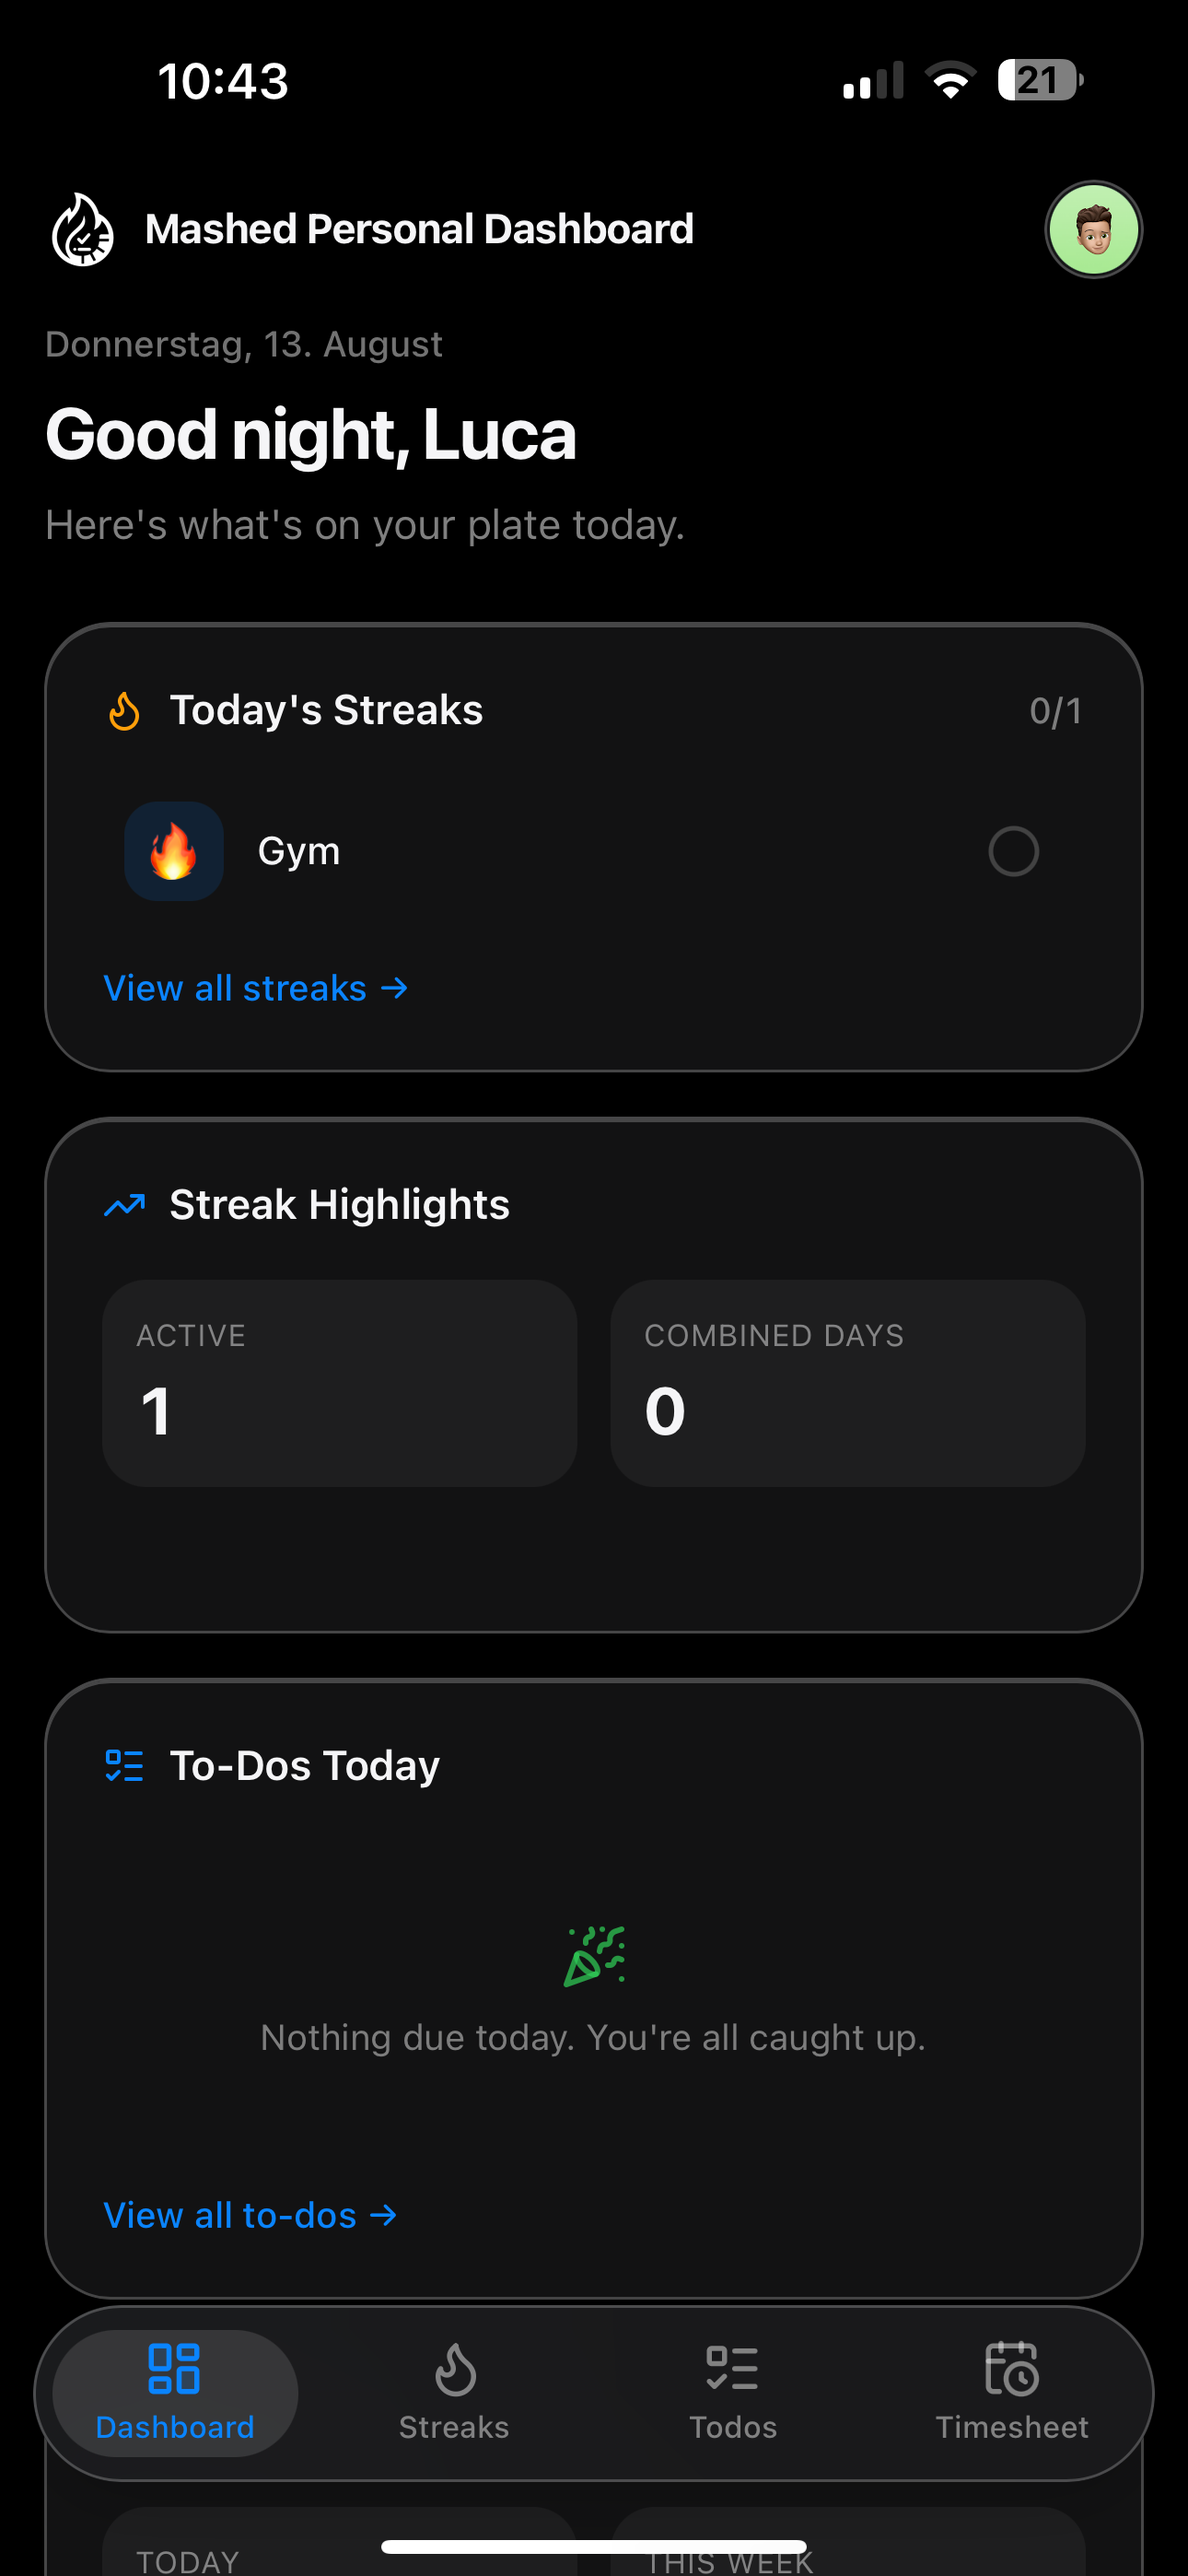
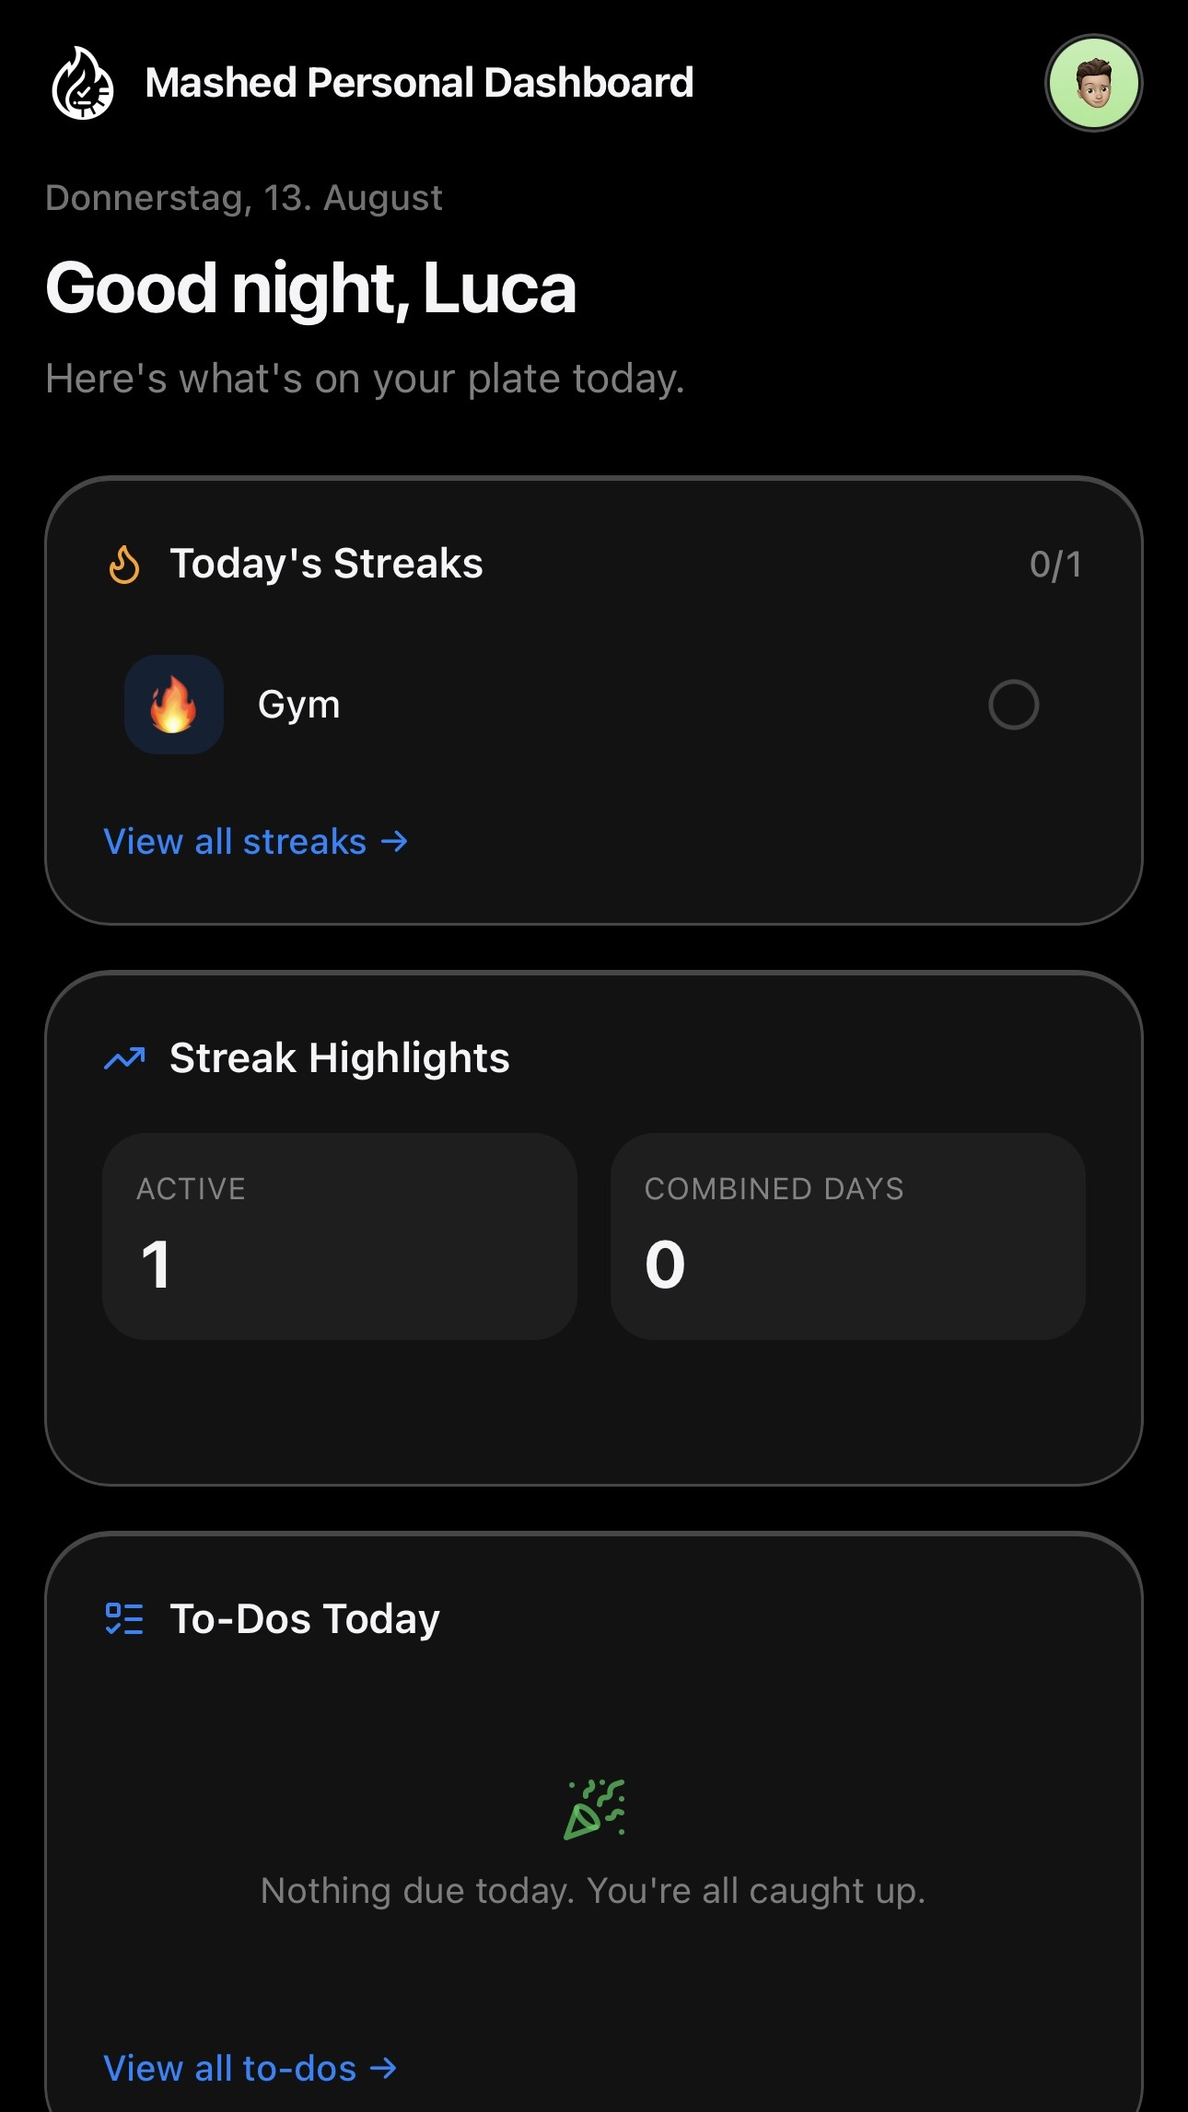
Update manifest version and screenshot dimensions for improved PWA compliance
- Updated the manifest.json to version 11, reflecting changes in related applications and display settings.
- Adjusted screenshot dimensions in the manifest and documentation to match the new image sizes.
- Replaced narrow-1080x1920.png and wide-1920x1080.png with higher resolution versions for better visual representation.

diff --git a/index.html b/index.html
@@ -7,7 +7,7 @@
     <link rel="icon" href="/favicon.svg?v=9" type="image/svg+xml" />
     <link rel="shortcut icon" href="/favicon-32.png?v=9" />
     <link rel="apple-touch-icon" sizes="180x180" href="/apple-touch-icon.png?v=9" />
-    <link rel="manifest" href="/manifest.json?v=10" />
+    <link rel="manifest" href="/manifest.json?v=11" />
     <meta name="viewport" content="width=device-width, initial-scale=1.0, viewport-fit=cover, maximum-scale=1.0" />
     <meta name="theme-color" content="#000000" />
     <meta name="color-scheme" content="light dark" />

diff --git a/SETUP.md b/SETUP.md
@@ -217,12 +217,12 @@ Suggested Android package name (change it in PWABuilder if you prefer a domain y
 
 [`public/manifest.json`](public/manifest.json) expects these files (replace the placeholders with real signed-in captures before store submission):
 
-| File | Size | Form factor |
+| File | Current pixels | Form factor |
 | --- | --- | --- |
-| `public/screenshots/narrow-1080x1920.png` | 1080×1920 | Phone portrait |
-| `public/screenshots/wide-1920x1080.png` | 1920×1080 | Desktop / tablet landscape |
+| `public/screenshots/narrow-1080x1920.png` | 1290×2796 | Phone portrait |
+| `public/screenshots/wide-1920x1080.png` | 2796×1290 | Desktop / tablet landscape |
 
-Keep the filenames. PWABuilder and Play listings use them as-is.
+Keep the filenames. If you replace the images, update the matching `sizes` values in [`public/manifest.json`](public/manifest.json) — PWABuilder rejects screenshots when `sizes` doesn’t match the real pixel dimensions.
 
 ### Digital Asset Links
 
